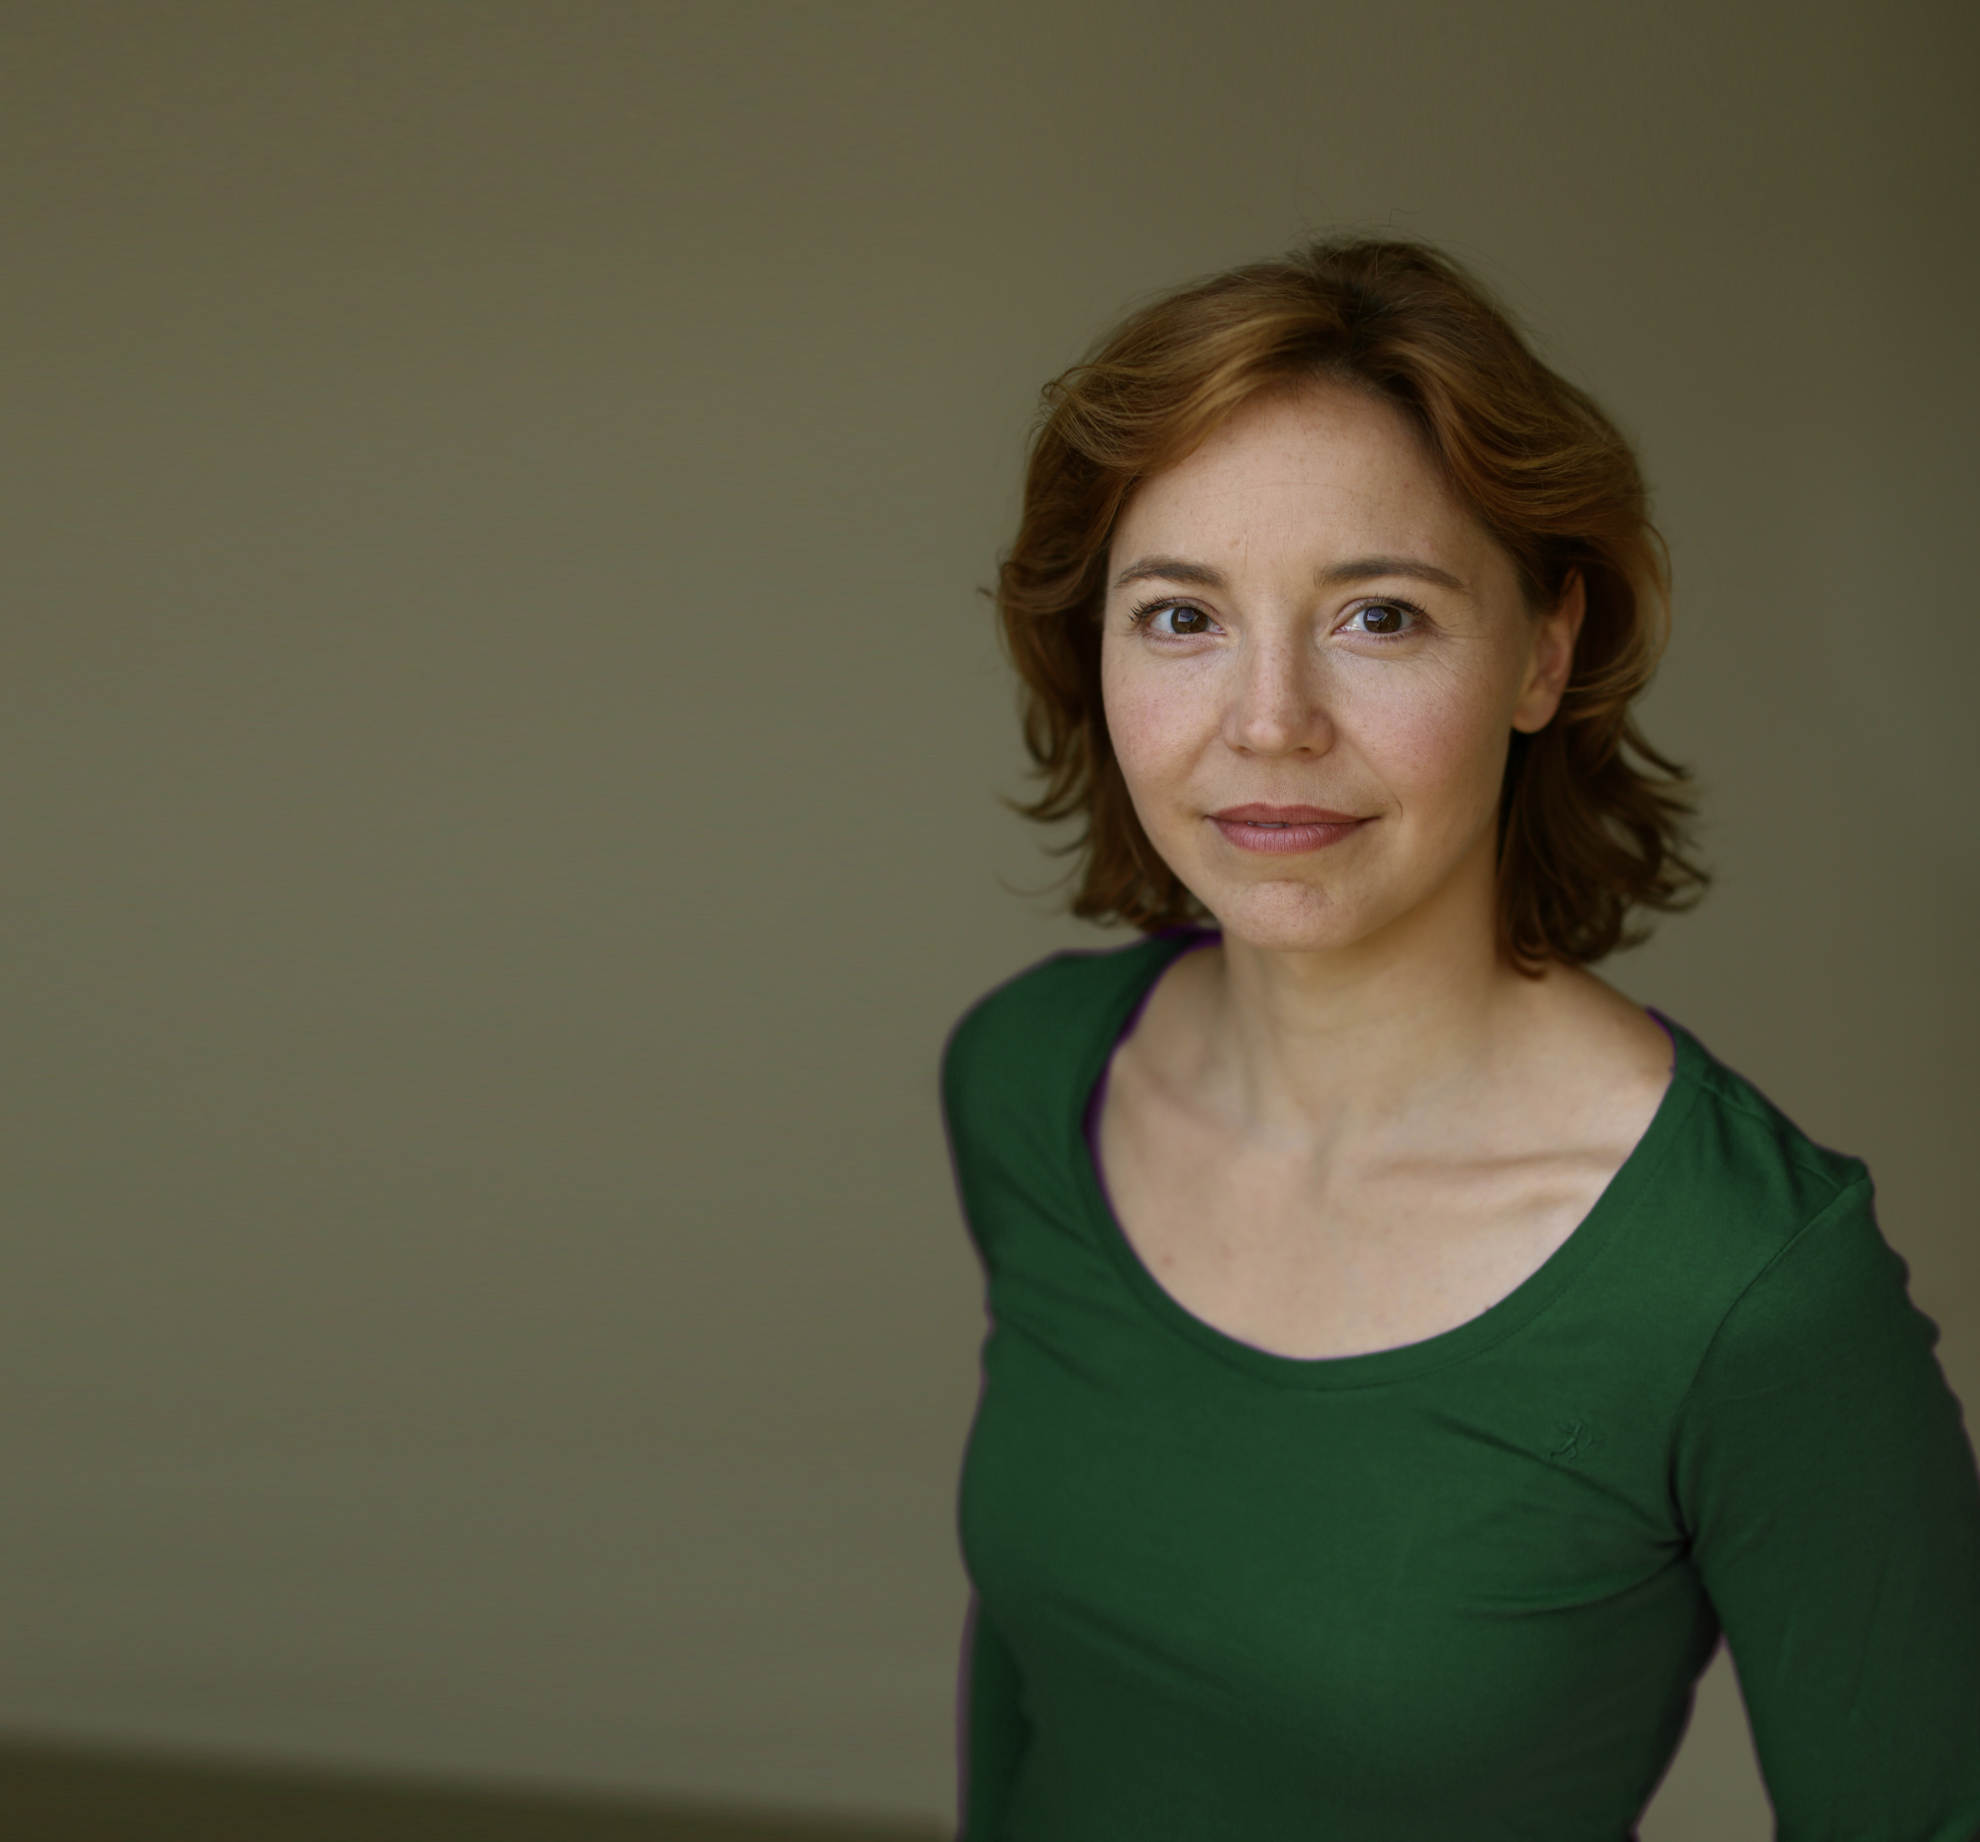
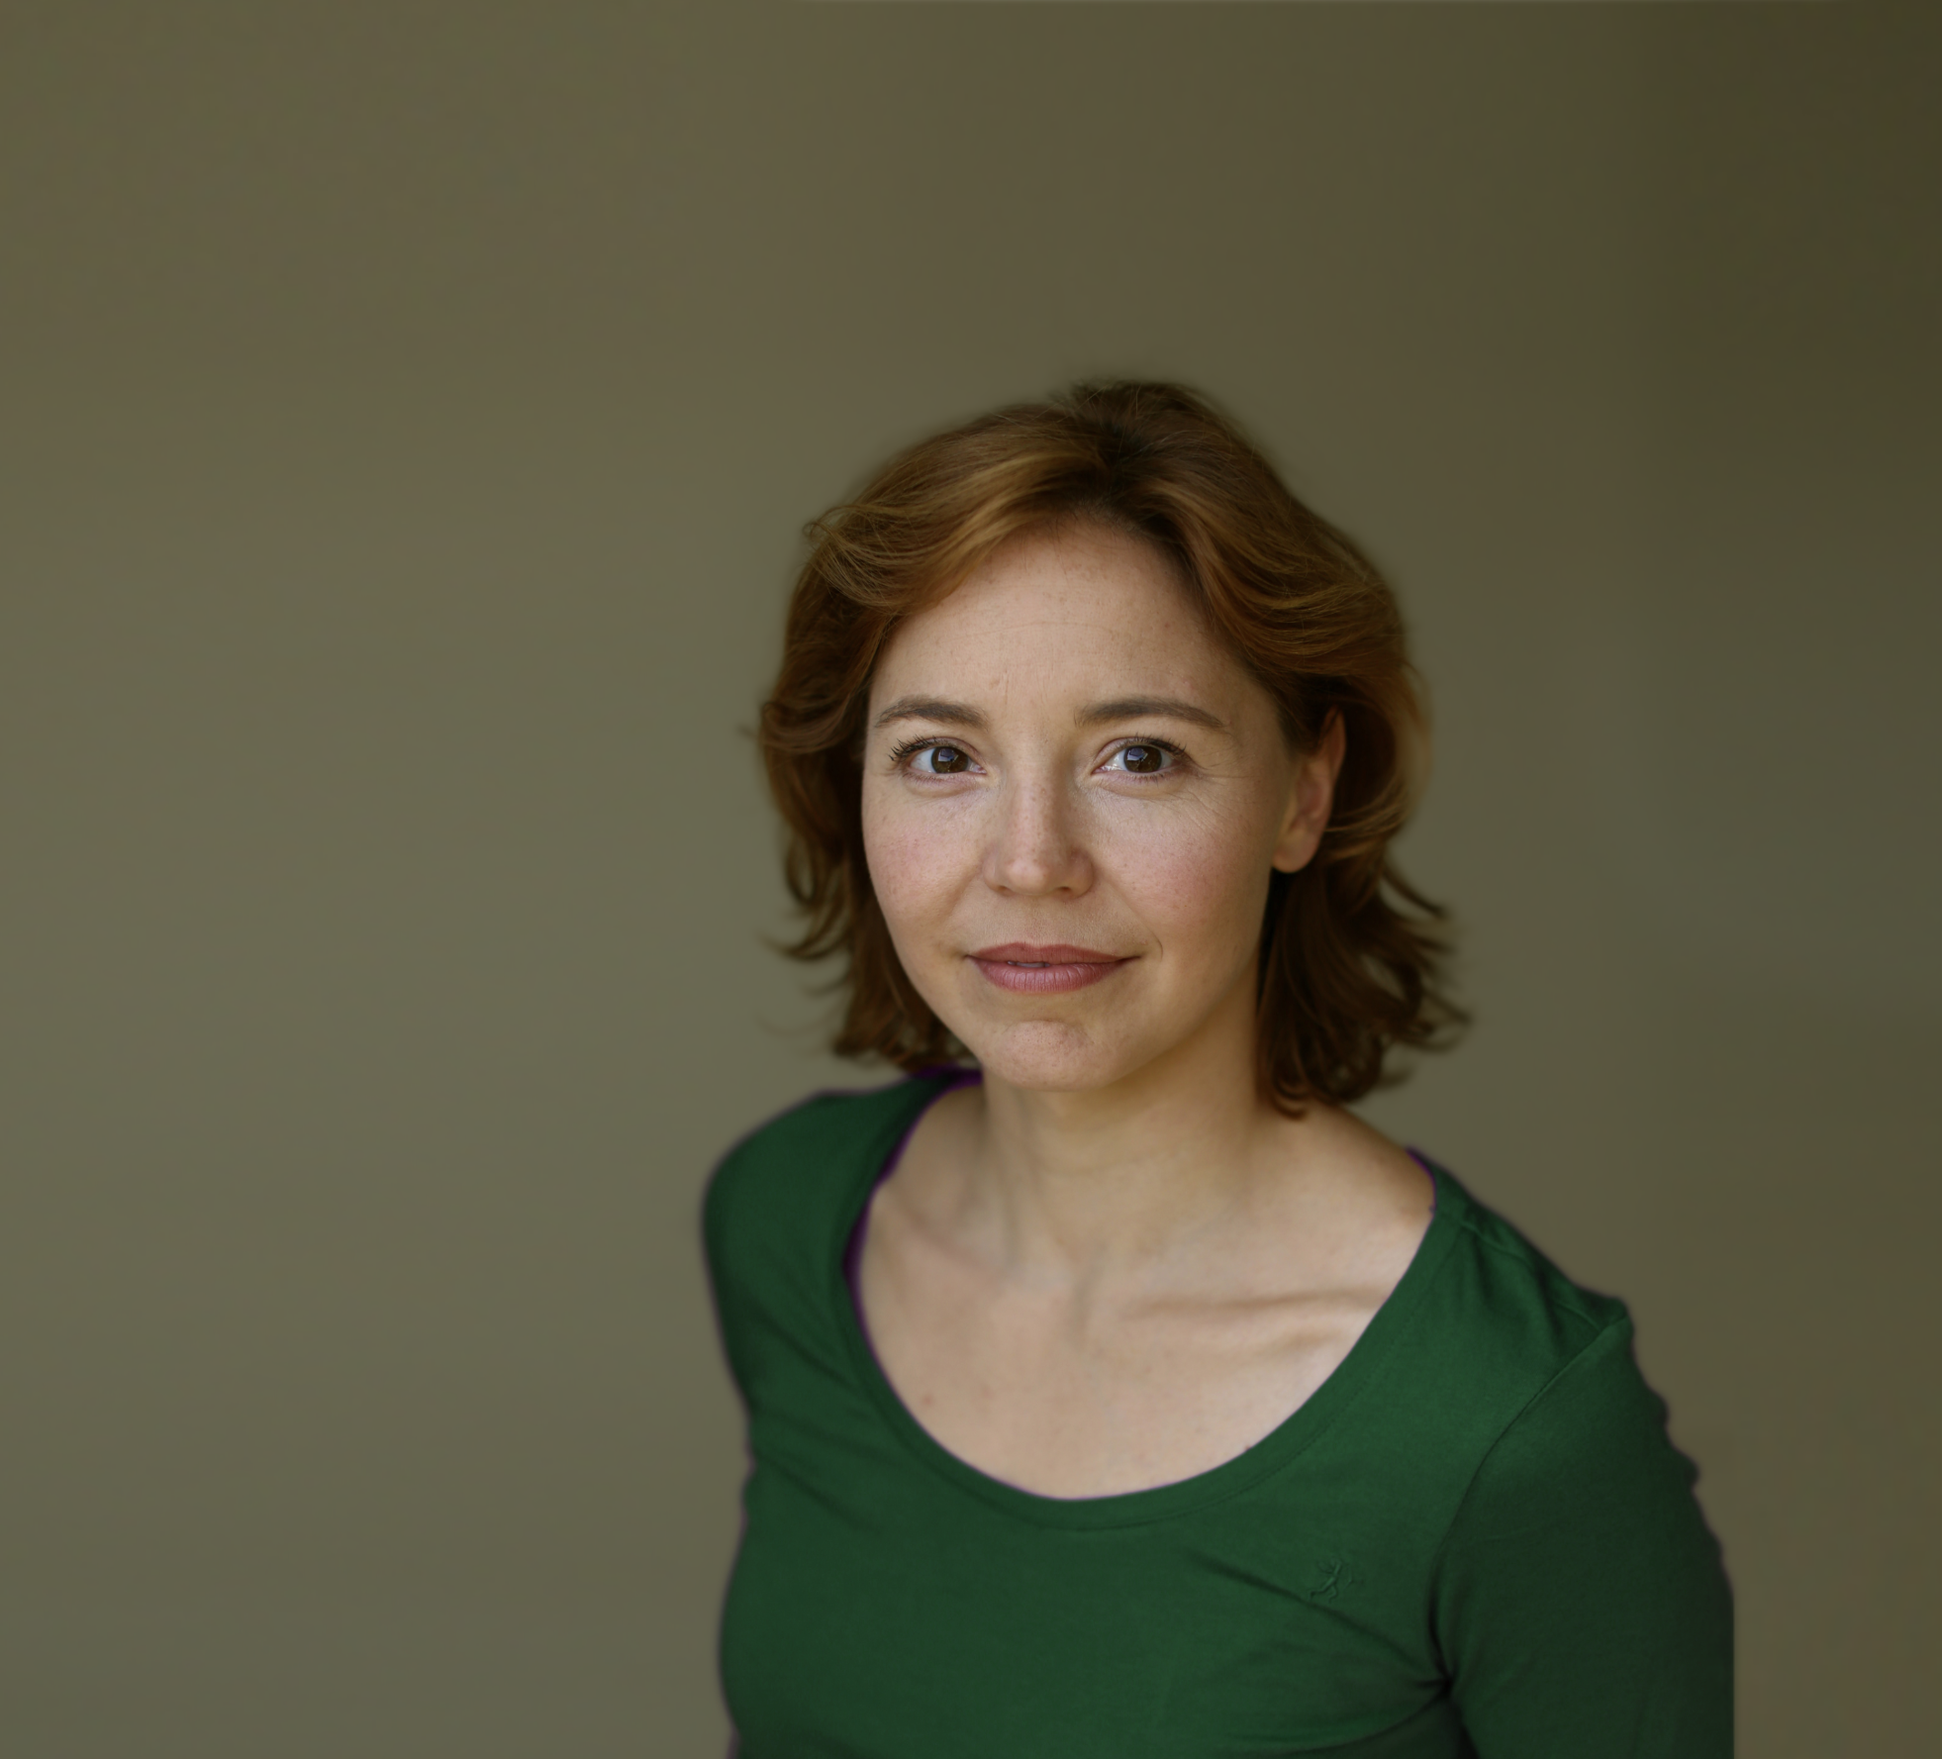
style: adjust slideshow img

diff --git a/src/app/aboutme/aboutme.component.scss b/src/app/aboutme/aboutme.component.scss
@@ -40,7 +40,6 @@ section {
   display: flex;
   justify-content: center;
   overflow: hidden;
-  transform: translateY(-20px);
   border-radius: 10px;
 }
 
@@ -48,8 +47,8 @@ section {
   height: 750px;
   width: 1200px;
   object-fit: cover;
-  object-position: top;
-  animation: zoomIn 10s ease-out infinite;
+  object-position: center;
+  animation: zoomIn 10s ease-in-out infinite;
   background-color: black;
   overflow: hidden;
 }

diff --git a/src/app/aboutme/aboutme.component.ts b/src/app/aboutme/aboutme.component.ts
@@ -10,8 +10,7 @@ export class AboutmeComponent implements OnInit {
 
   constructor() {}
 
-  images = ['me_green.png', 'aboutme2.jpg'];
-  images2 = ['bg-ochre.png', 'bg-grey.png'];
+  images = ['me_green.png', 'aboutme2.png'];
   headlines = ['aboutme.slide_1', 'aboutme.slide_2'];
   currentImage = 0;
   showImage = true;
